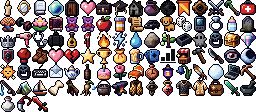
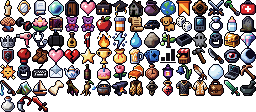
fix

Changed region(s): [[0.625, 0.0, 0.6875, 0.1339]]

diff --git a/css/main.css b/css/main.css
@@ -59,7 +59,7 @@ body.compact .nav-btn { padding: 5px 8px; margin: 3px 0; font-size: .95rem; }
 body.icons-only .nav-btn span.lbl { display: none; }
 
 /* ---- sprite icons (CC0 pixel-art-atlas) */
-.icon { display: inline-block; width: 24px; height: 24px; flex: none; background-image: url('../assets/icons.png'); background-repeat: no-repeat; image-rendering: pixelated; vertical-align: middle; }
+.icon { display: inline-block; width: 24px; height: 24px; flex: none; background-image: url('../assets/icons.png?v=0941'); background-repeat: no-repeat; image-rendering: pixelated; vertical-align: middle; }
 .icon.lg { width: 40px; height: 40px; } .icon.xl { width: 72px; height: 72px; } .icon.sm { width: 18px; height: 18px; }
 
 /* ---- center: year card + feed */

diff --git a/js/version.js b/js/version.js
@@ -1,7 +1,10 @@
 // Game version + update log. When releasing an update: bump VERSION here AND in /version.json,
 // and add a new entry at the TOP of CHANGELOG. Open games notice version.json changed and refresh.
-export const VERSION = '0.9.40';
+export const VERSION = '0.9.41';
 export const CHANGELOG = [
+  { v: '0.9.41', date: '2026-11-17', title: 'Blue marble', notes: [
+    'The World icon is now an actual Earth: blue oceans, green continents and a couple of clouds, instead of a black ball.',
+  ] },
   { v: '0.9.40', date: '2026-11-17', title: 'No more rosy boys', notes: [
     'Males are no longer born with blush marks. Existing male characters lose them too, unless you picked blush yourself in the mirror.',
   ] },
